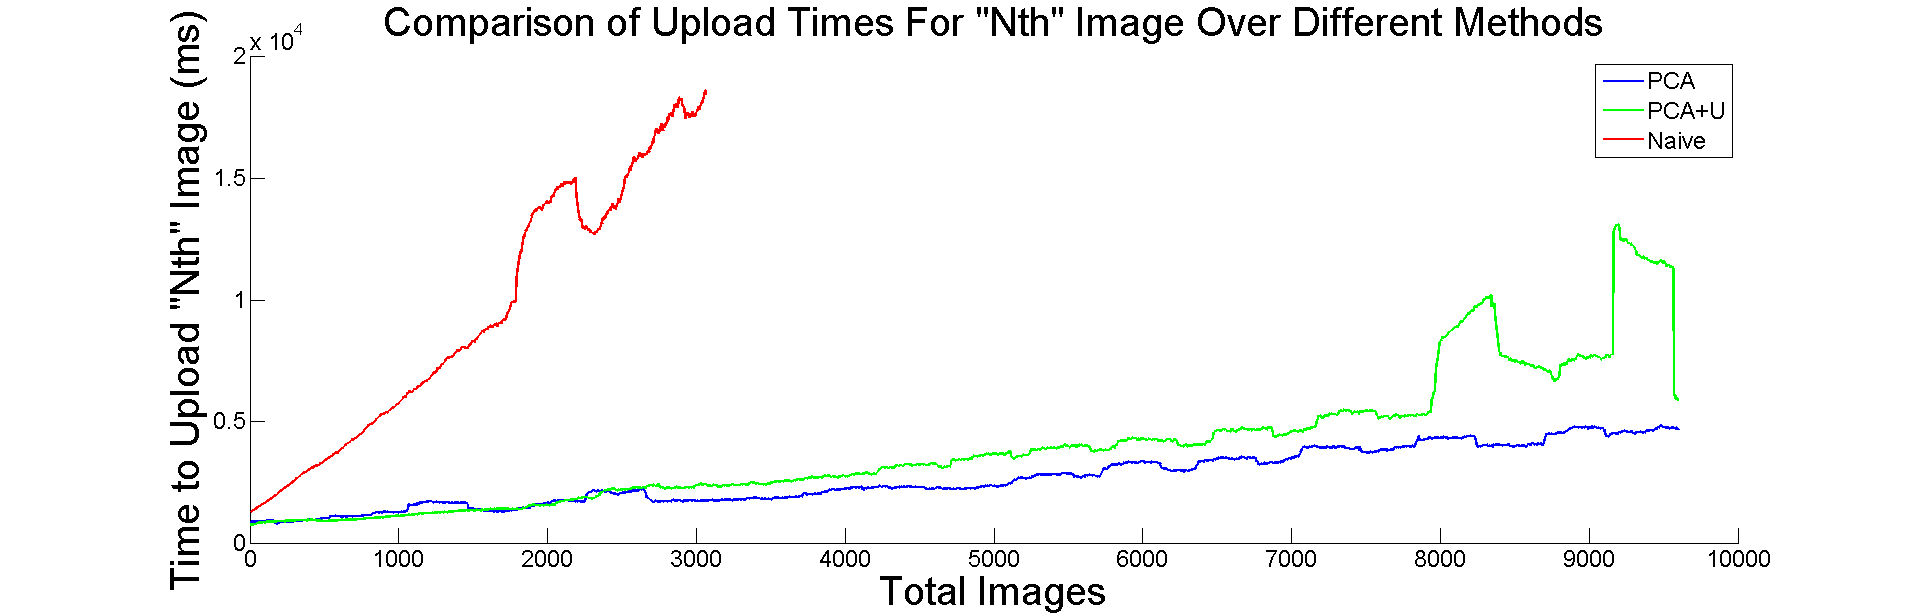
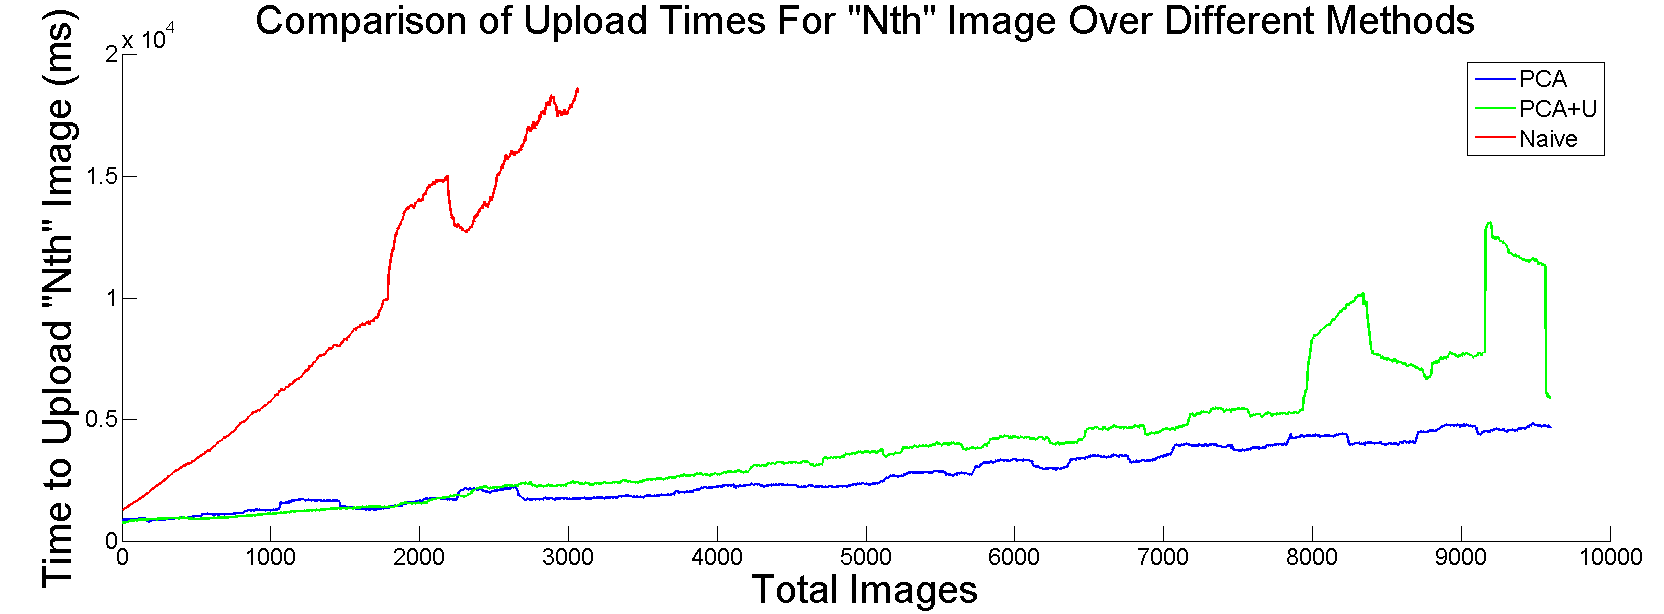
stuff

diff --git a/report/performance.tex b/report/performance.tex
@@ -38,7 +38,7 @@ Even though we do not see the dictionary size plateauing even for our 10K image 
 
  \begin{figure}
 \hspace{-10mm}
-%\centering
+\centering
 \includegraphics[width=1\linewidth]{Figures/upload_times.png}
 \caption{As more images are added to the database, more patches are available in the dictionary. Thus, it is expected that we will need to look through more of the patches in order to determine if a matching patch already exists or if a new one should be added. The time to insert becomes infeasible in the case of the \emph{naive} approach because many patches end up in the first few bins (see fig.~\ref{fig:bin_cover}) requiring a linear search through all of them. The pca-based approaches allow patches to be more evenly distributed across bins which reduces the look-up time during insertion (fewer patches to examine in any given bin). Note: the weird behavior at the end of the green curve is an artifact of another process coming online at the same time as the database insertion procedure was run.}
 \label{fig:upload_times}
